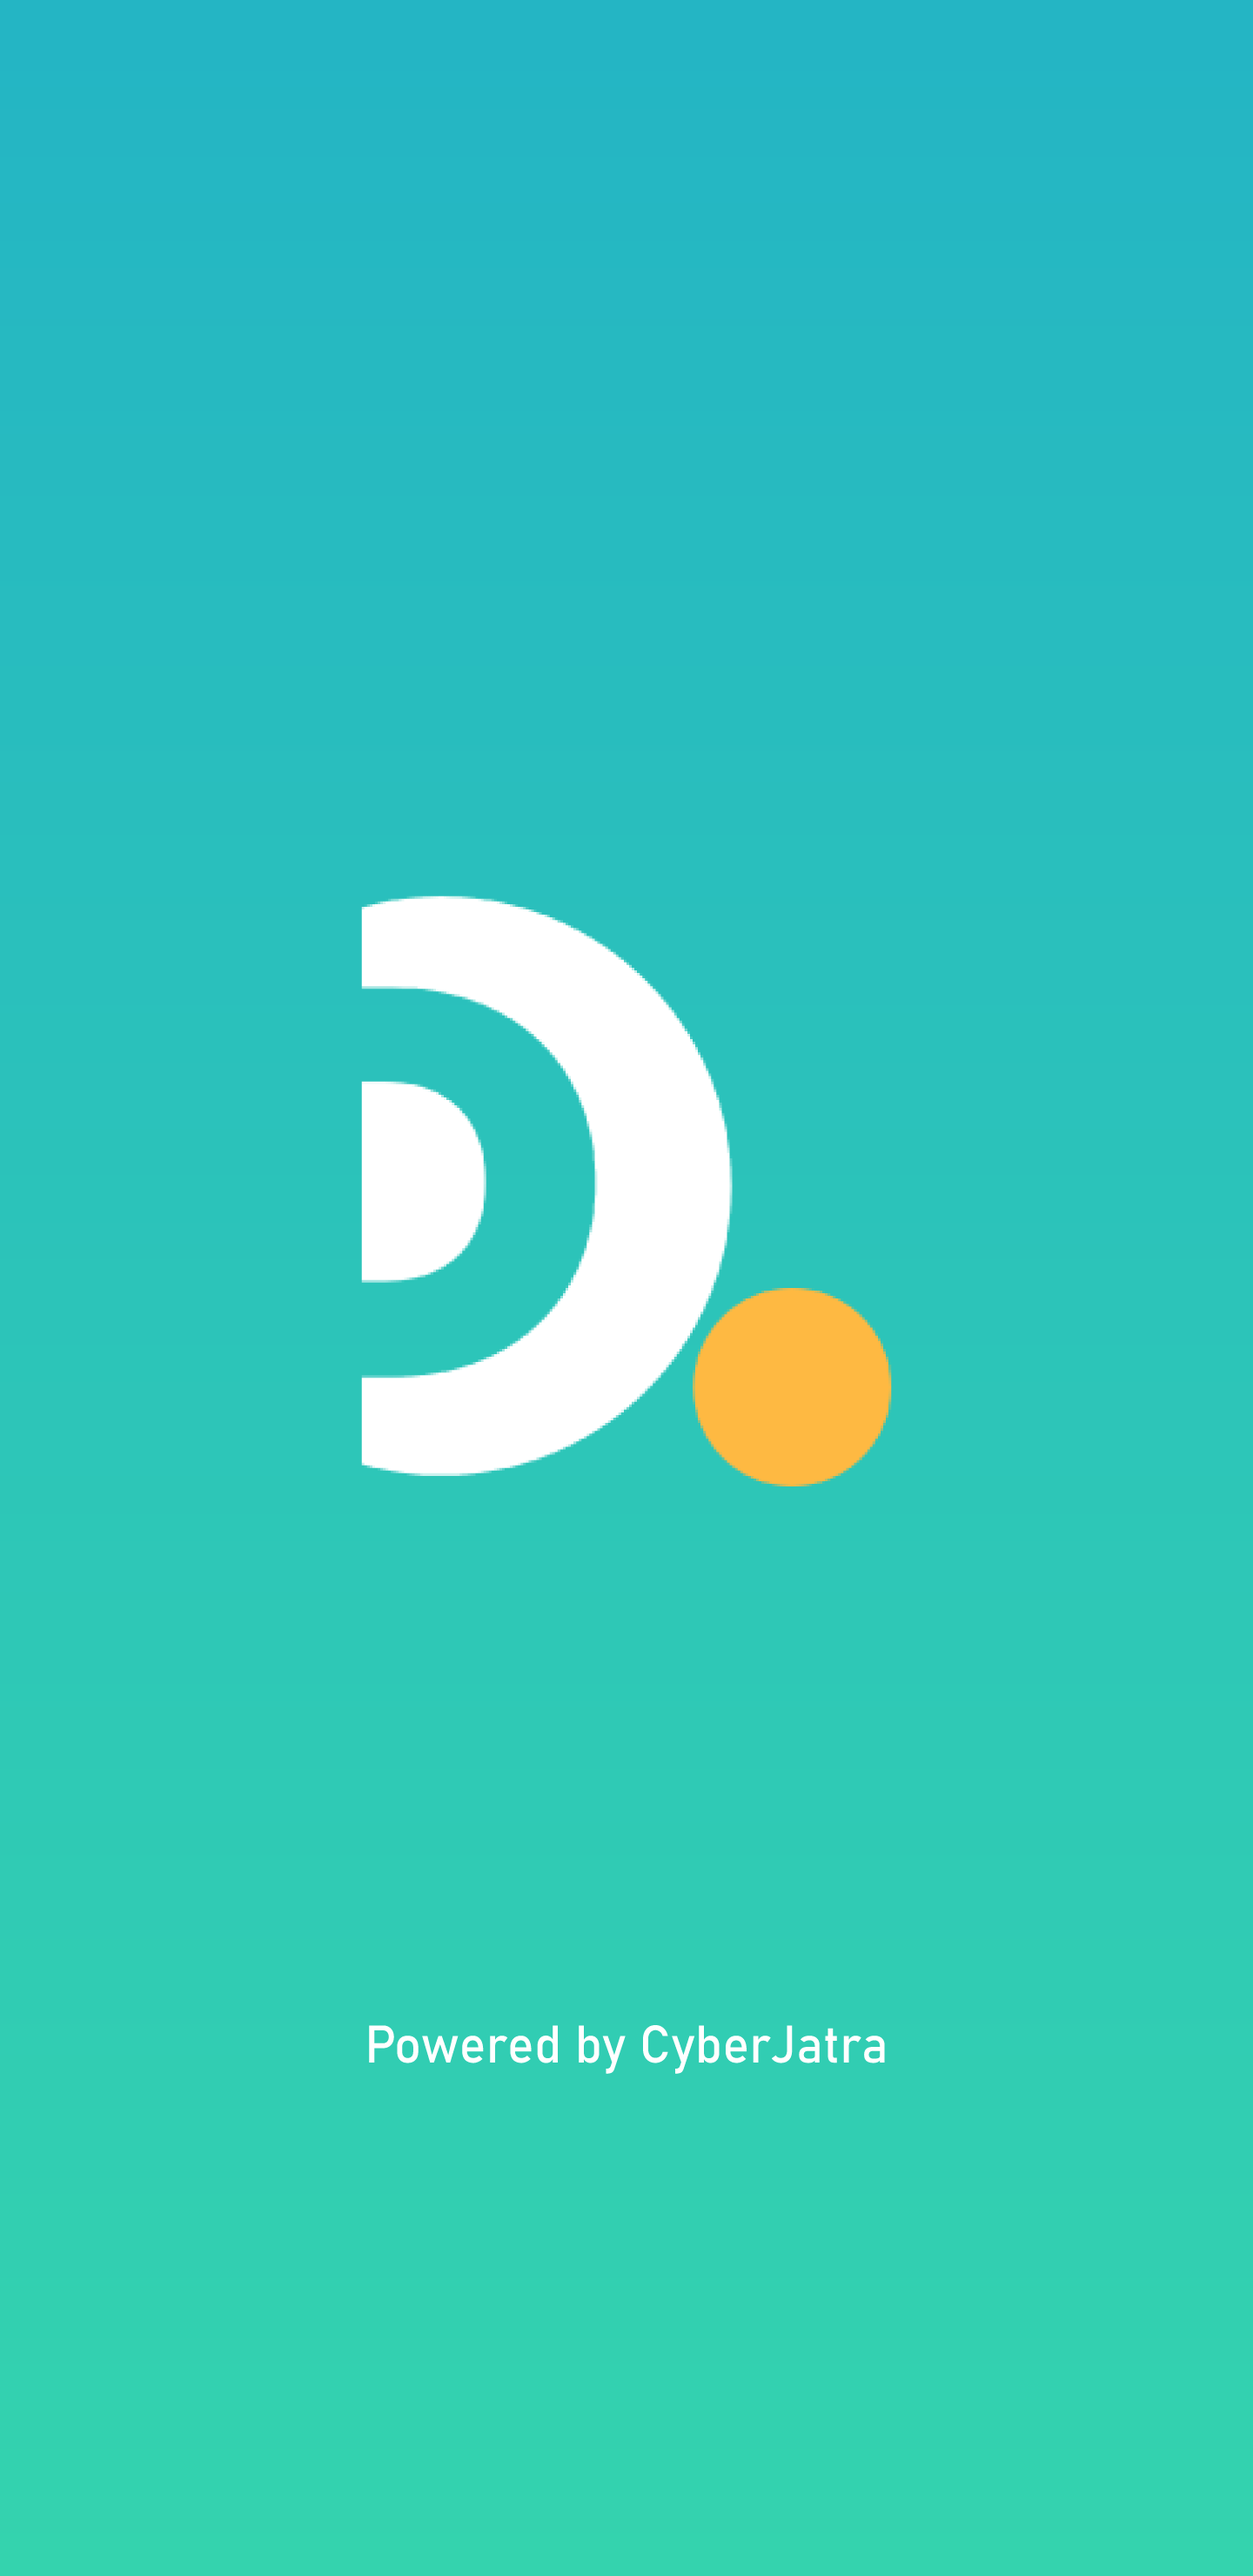
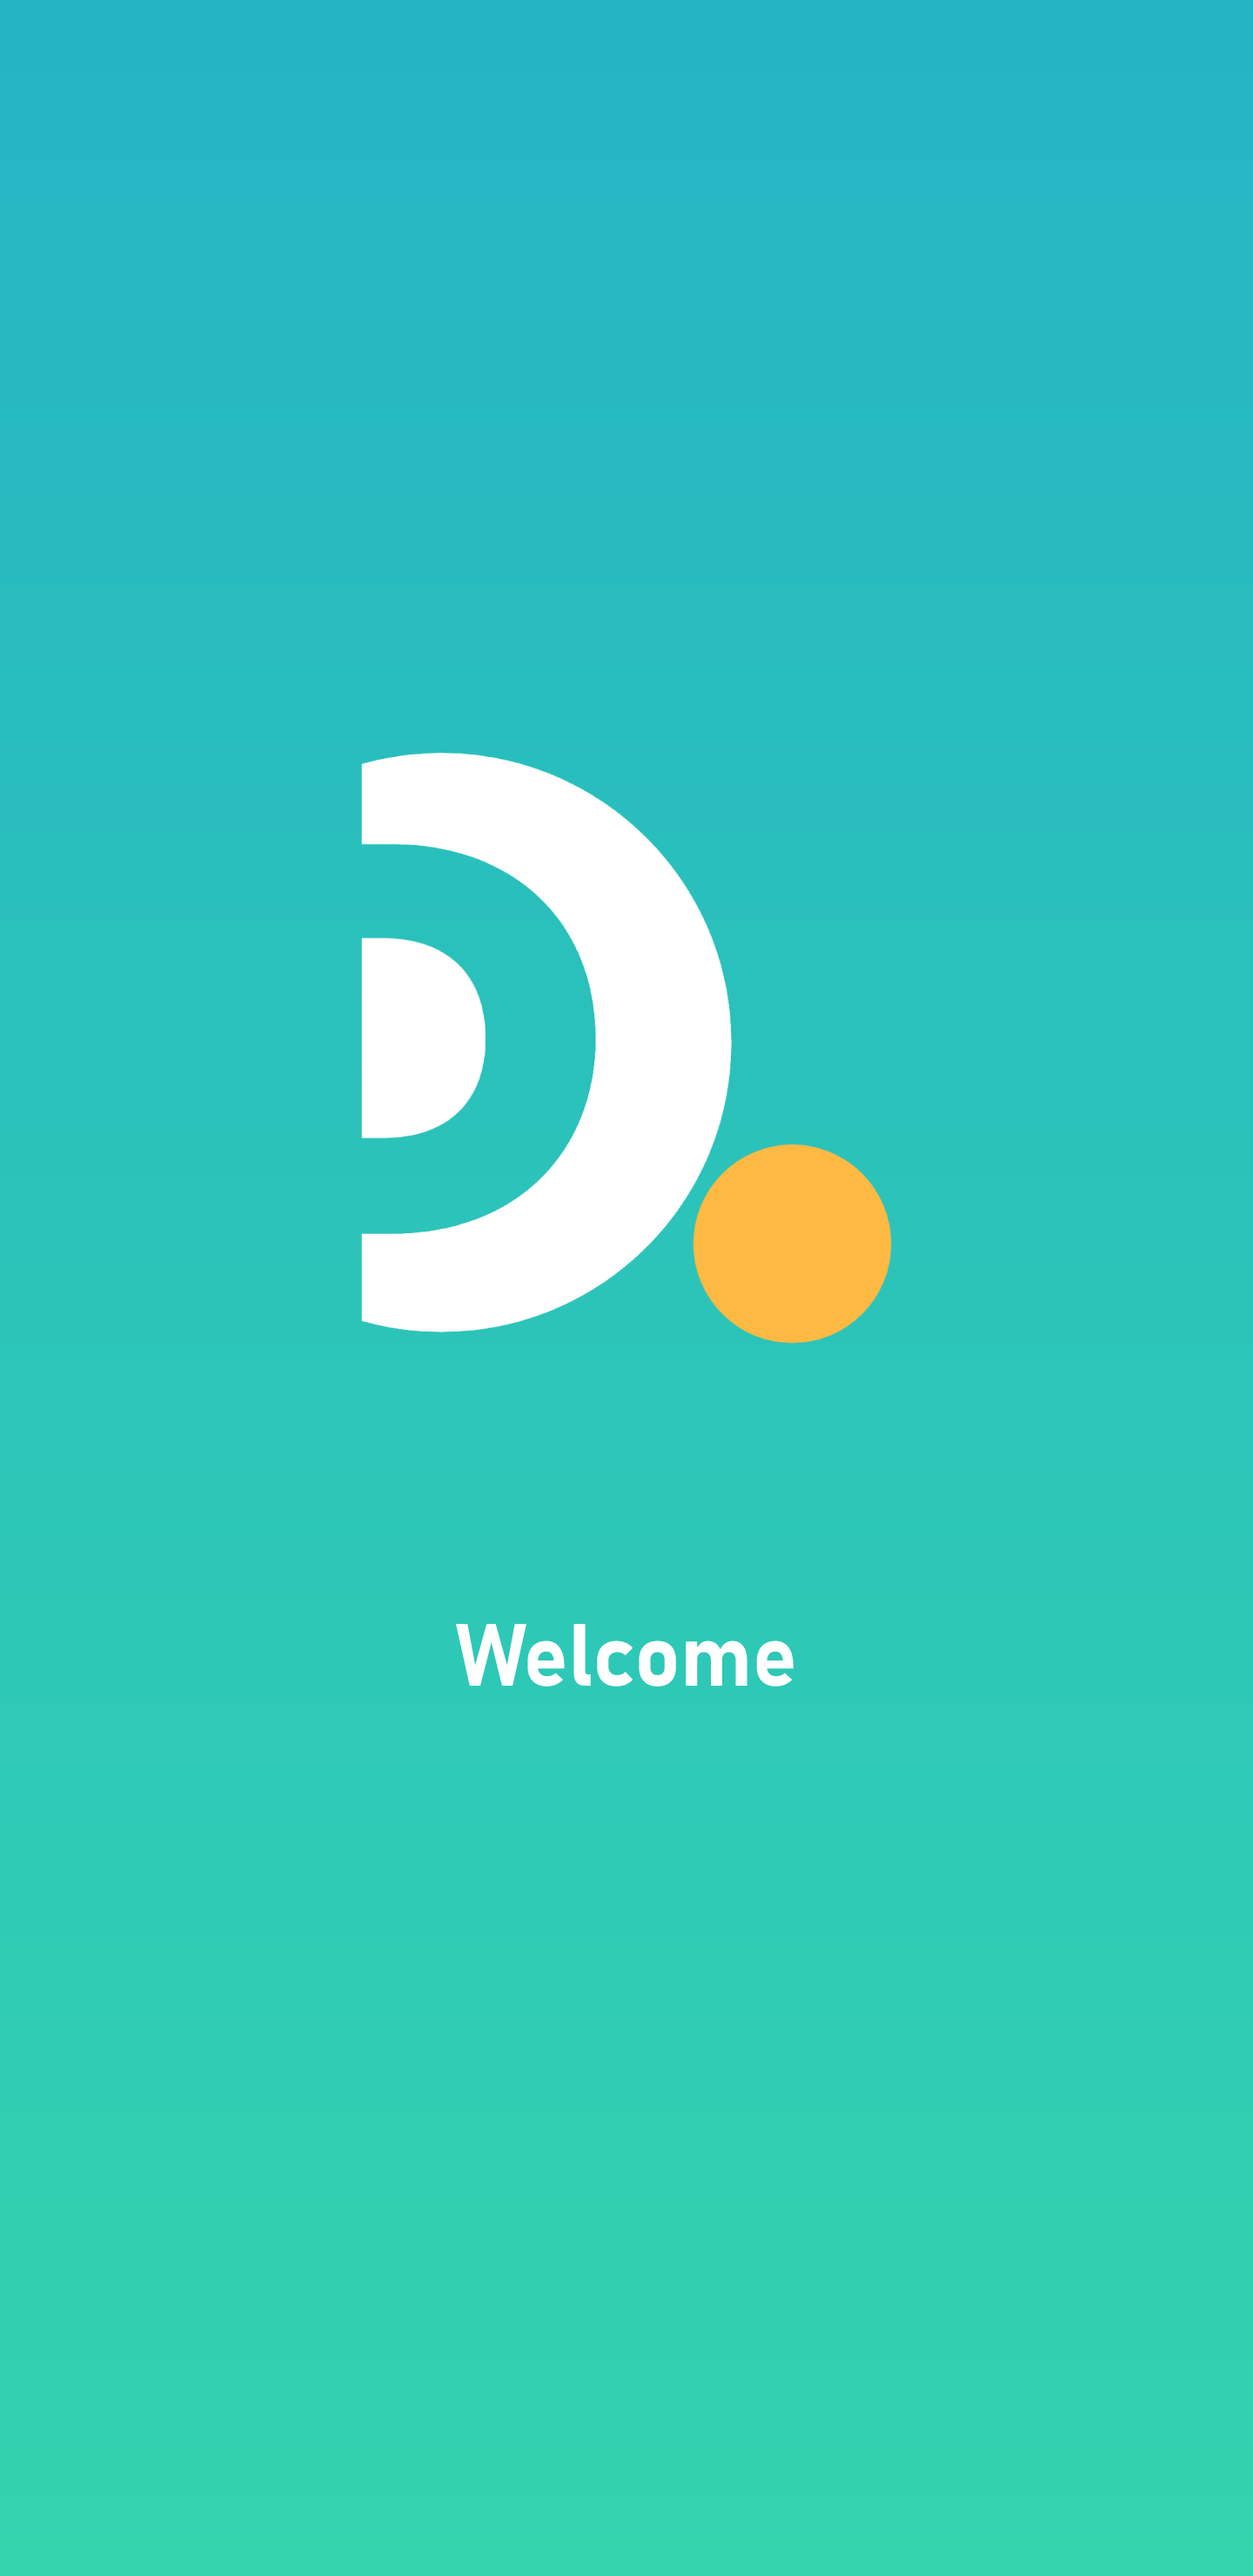
fix splash screen, add no data blog screen

Changed region(s): [[0.2812, 0.2797, 0.7188, 0.5905], [0.2812, 0.777, 0.7188, 0.8081], [0.3438, 0.6216, 0.625, 0.6527]]

diff --git a/lib/screens/home_screen/home_page.dart b/lib/screens/home_screen/home_page.dart
@@ -7,6 +7,7 @@ import 'package:dd_app/screens/payment_screen.dart';
 import 'package:dd_app/screens/view_all_vendors.dart';
 import 'package:dd_app/screens/login_register.dart';
 import 'package:flutter/material.dart';
+import 'package:dd_app/screens/blog.dart';
 import 'package:dd_app/utilities/services.dart';
 import 'package:dd_app/screens/profile_screen/profile.dart';
 import 'package:shared_preferences/shared_preferences.dart';
@@ -529,7 +530,9 @@ class _HomePageState extends State<HomePage> {
             color: kPrimaryColor,
           ),
           title: Text('Blog'),
-          onTap: () {},
+          onTap: () {
+            Navigator.pushNamed(context, Blog.id);
+          },
         ),
         ListTile(
           leading: Icon(
@@ -538,12 +541,7 @@ class _HomePageState extends State<HomePage> {
           ),
           title: Text('About Us'),
           onTap: () {
-            Navigator.push(
-              context,
-              MaterialPageRoute(
-                builder: (BuildContext context) => AboutUs(),
-              ),
-            );
+            Navigator.pushNamed(context, AboutUs.id);
           },
         ),
         ListTile(
@@ -600,7 +598,9 @@ class _HomePageState extends State<HomePage> {
                     color: kPrimaryColor,
                   ),
                   title: Text('Blog'),
-                  onTap: () {},
+                  onTap: () {
+                    Navigator.pushNamed(context, Blog.id);
+                  },
                 ),
                 ListTile(
                   leading: Icon(
@@ -639,10 +639,7 @@ class _HomePageState extends State<HomePage> {
                   ),
                   title: Text('About Us'),
                   onTap: () {
-                    Navigator.push(
-                        context,
-                        MaterialPageRoute(
-                            builder: (BuildContext context) => AboutUs()));
+                    Navigator.pushNamed(context, AboutUs.id);
                   },
                 ),
                 ListTile(

diff --git a/lib/screens/blog.dart b/lib/screens/blog.dart
@@ -1,0 +1,32 @@
+import 'package:dd_app/screens/home_screen/home_page.dart';
+import "package:flutter/material.dart";
+
+class Blog extends StatelessWidget {
+  static const String id = "blog";
+  @override
+  Widget build(BuildContext context) {
+    return Scaffold(
+      appBar: AppBar(
+        backgroundColor: Colors.white,
+        centerTitle: true,
+        leading: IconButton(
+          icon: Icon(Icons.arrow_back, color: Colors.black),
+          onPressed: () => Navigator.pushNamed(context, HomePage.id),
+        ),
+        title: Text("Blog"),
+      ),
+      body: Padding(
+        padding: const EdgeInsets.all(8.0),
+        child: Center(
+          child: Text(
+            "No Data",
+            style: TextStyle(
+              fontSize: 22,
+              fontWeight: FontWeight.bold,
+            ),
+          ),
+        ),
+      ),
+    );
+  }
+}

diff --git a/lib/main.dart b/lib/main.dart
@@ -1,3 +1,4 @@
+import 'package:dd_app/screens/blog.dart';
 import 'package:dd_app/screens/home_screen/open_qr_scanner.dart';
 import 'package:dd_app/screens/search/search_bar_page.dart';
 import 'package:dd_app/screens/payment_screen.dart';
@@ -59,6 +60,7 @@ class MyApp extends StatelessWidget {
         CategoryPage.id: (context) => CategoryPage(),
         Profile.id: (context) => Profile(),
         ProfileEdit.id: (context) => ProfileEdit(),
+        Blog.id: (context) => Blog(),
         Payment.id: (context) => Payment(),
         DiscountHistory.id: (context) => DiscountHistory(),
         PaymentHistory.id: (context) => PaymentHistory(),
@@ -68,7 +70,6 @@ class MyApp extends StatelessWidget {
   }
 }
 
-//TODO 1: CyberJatra Splash screen remove
 //TODO 2: Blog Page = NO Data
 //TODO 3: Categories api integration
 //TODO 4: font awesome install

diff --git a/lib/screens/authentication/login_screen.dart b/lib/screens/authentication/login_screen.dart
@@ -248,6 +248,7 @@ class _LoginScreenState extends State<LoginScreen> {
                                   localStorage.setString(
                                       'Authorization', value.token);
                                   localStorage.setString('accountType', "User");
+                                  localStorage.setBool("resetPassword", false);
 
                                   Navigator.pushNamed(
                                     context,
